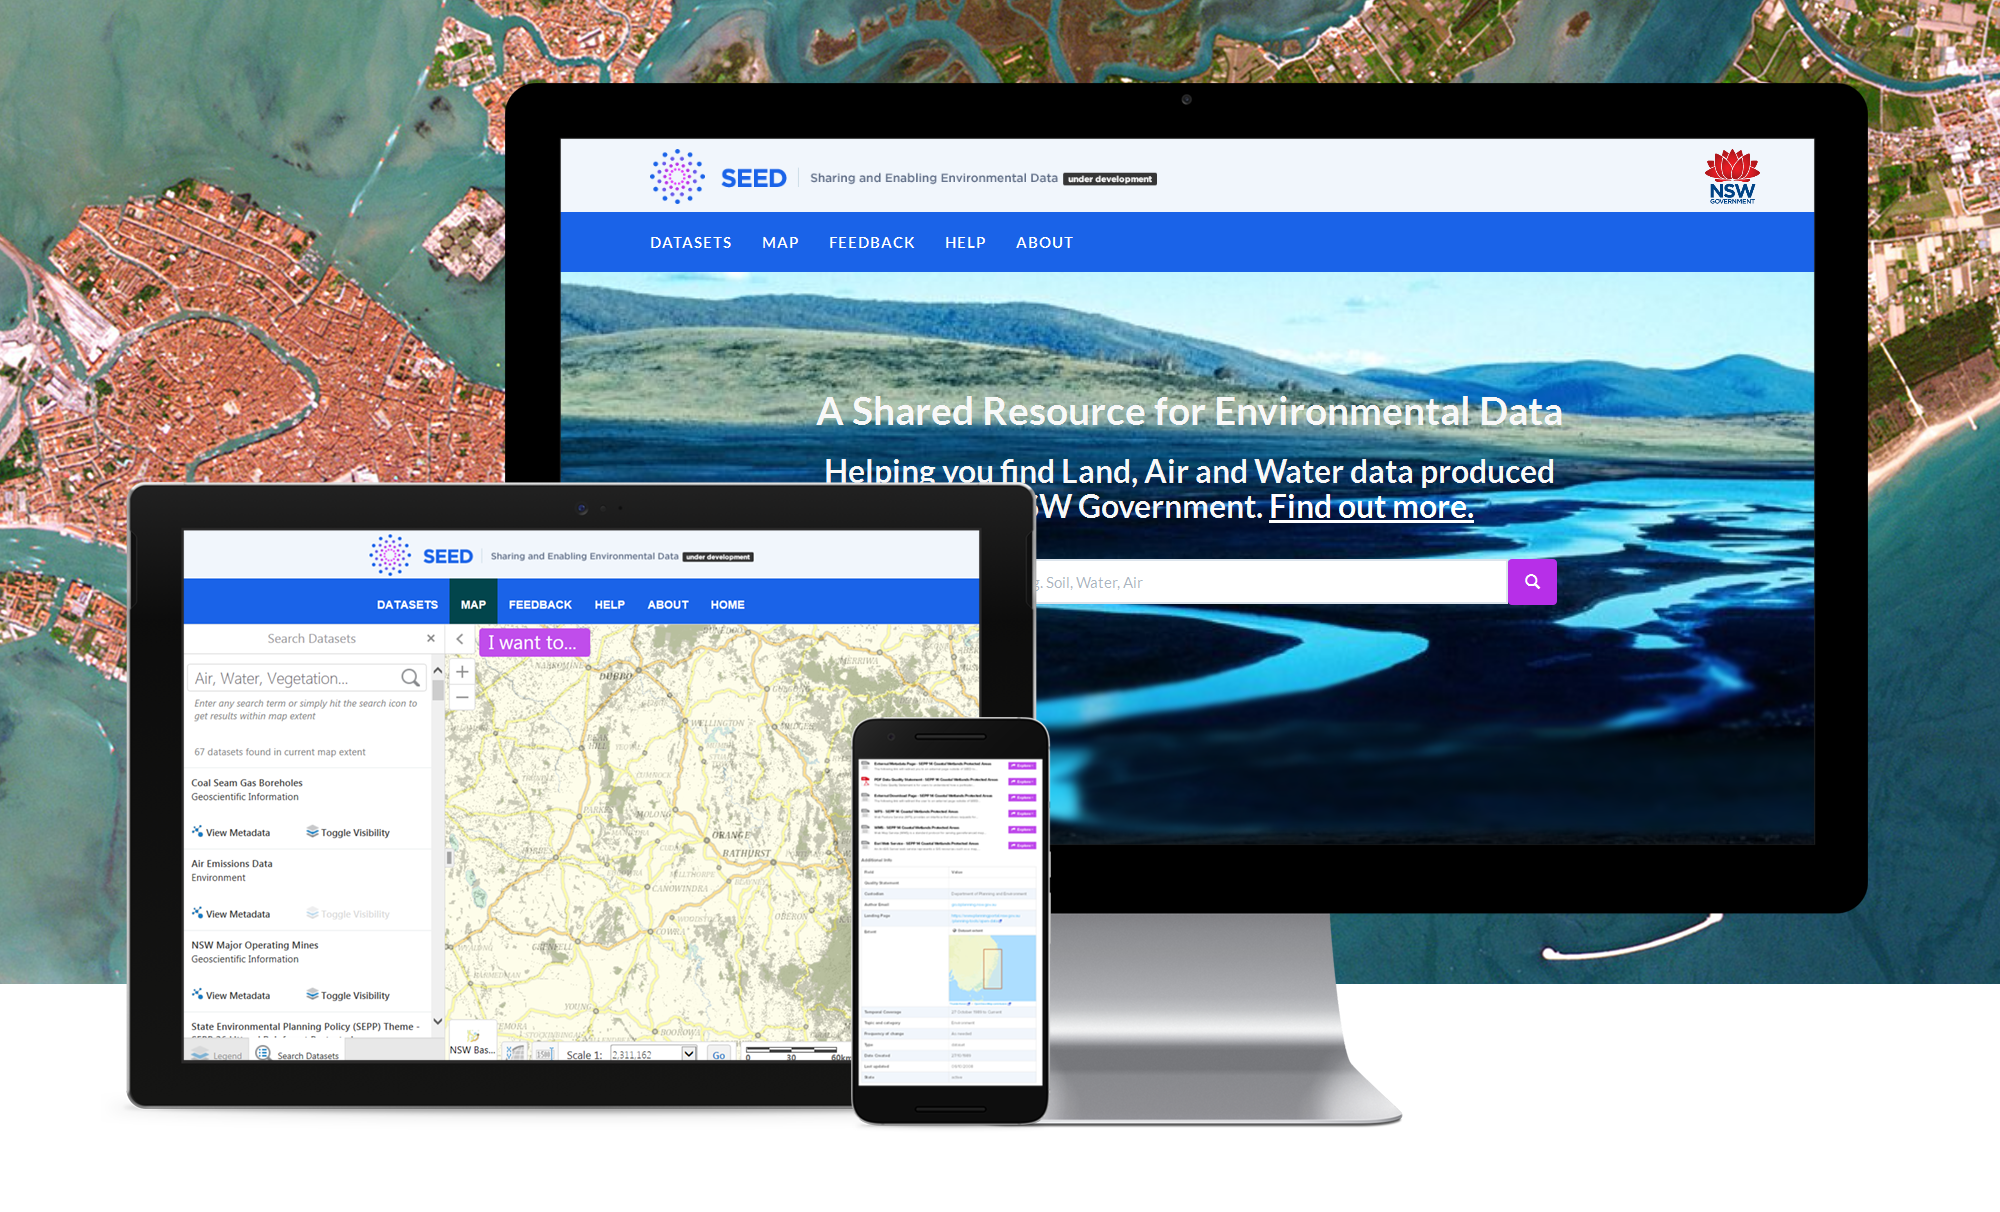
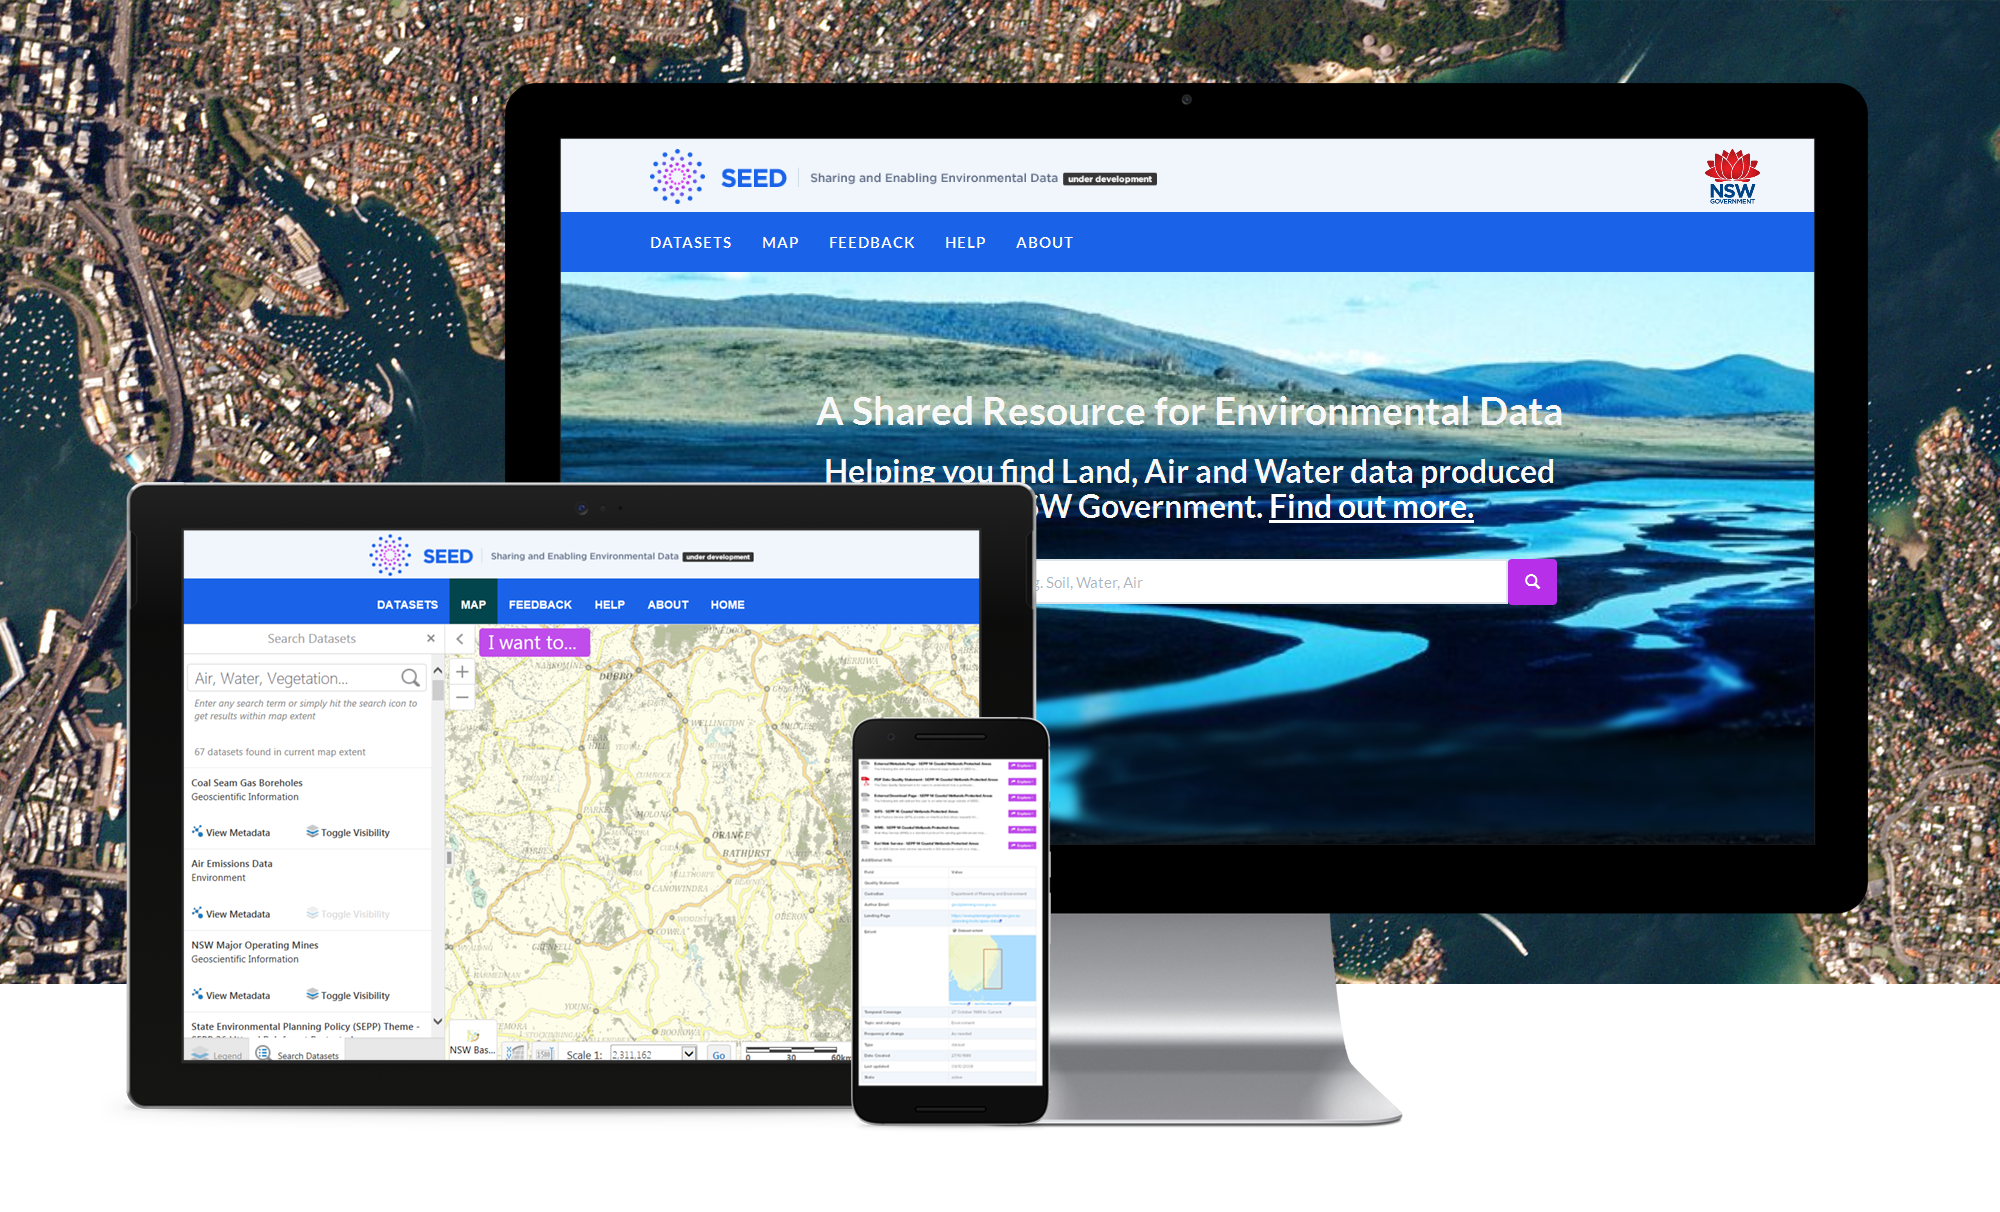
update images

Changed region(s): [[0.0, 0.0, 1.0, 0.8243]]

diff --git a/portfolio/simo.html b/portfolio/simo.html
@@ -127,7 +127,7 @@
 			</div>
 		</div>
 
-				<img  class="img-responsive" src="img/SIMO-hand-wide.jpg" width="90%" alt="" style="display: block; margin:50px auto 30px">
+				<img  class="img-responsive" src="img/SIMO-map.jpg" width="90%" alt="" style="display: block; margin:50px auto 30px">
 		<div class="container">
             <div class="row row-centered">	
                 <div class="col-sm-7 col-centered wow"  data-animation-delay="200">   
